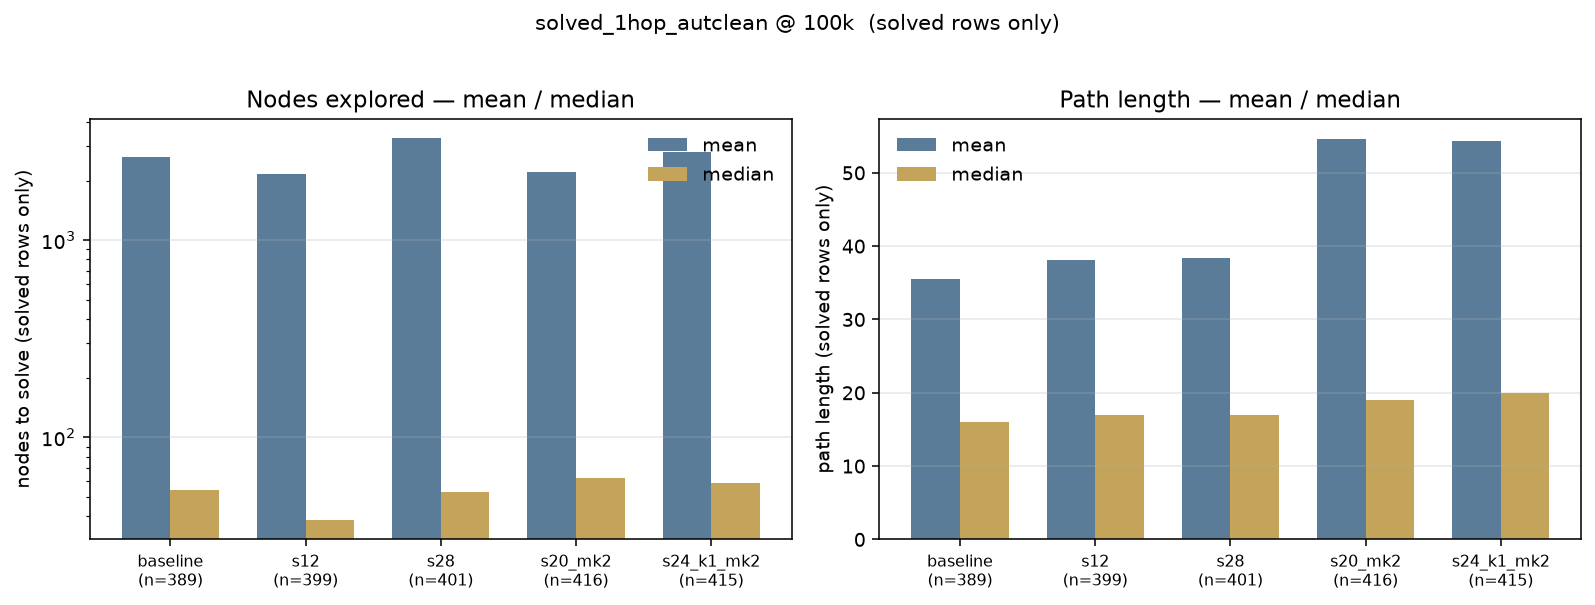
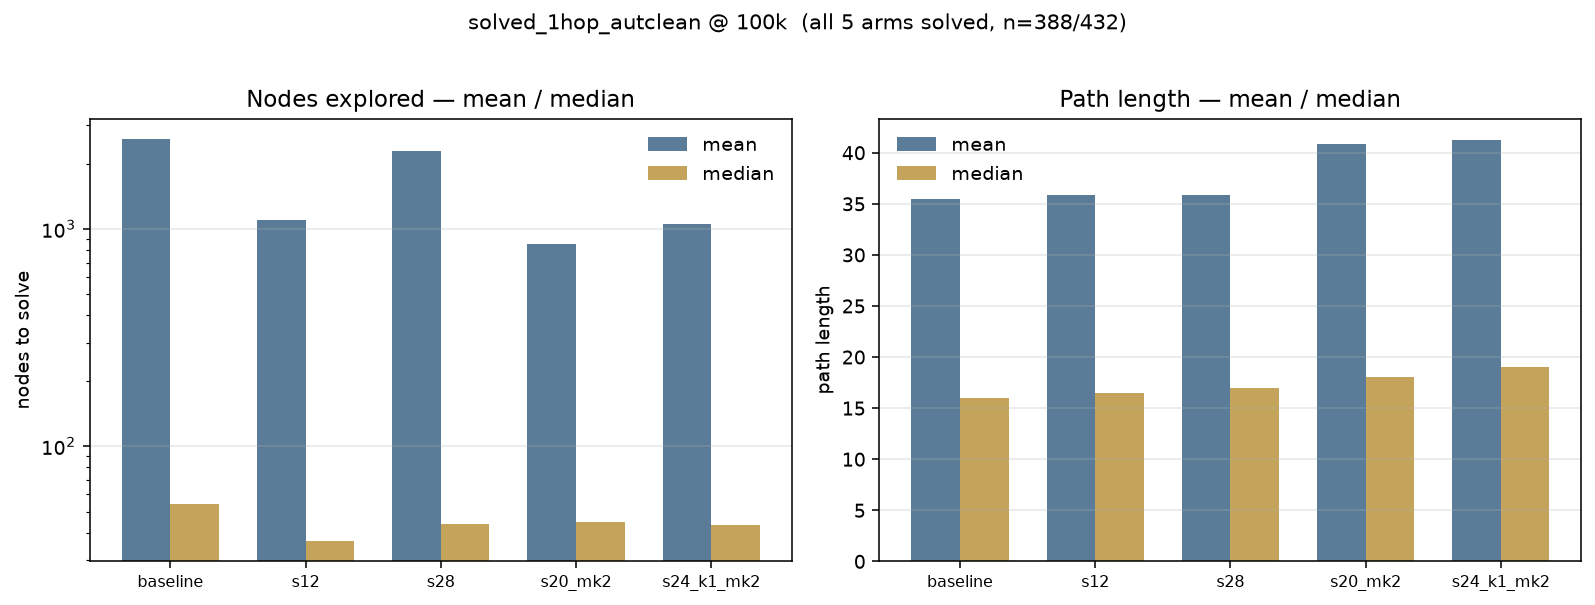
results: mean/median on all-five-solved denominator
Per-arm solved-only means biased treatments that pick up harder residuals.
Fig + RESULTS now use the 388 presentations every arm solved.

diff --git a/experiments/heuristic_search/figures/make_solved1hop_100k_figs.py b/experiments/heuristic_search/figures/make_solved1hop_100k_figs.py
@@ -131,30 +131,29 @@ def write_csv(assigned, path):
 
 
 def fig_mean_median(assigned, path):
-    """Bar chart: mean/median nodes and path over solved rows only."""
+    """Bar chart: mean/median on the all-five-solved intersection (unbiased)."""
+    all5 = [r for r in assigned if all(r[f"{a}_solved"] for a in ARMS)]
+    n = len(all5)
     fig, axes = plt.subplots(1, 2, figsize=(11.5, 4.2))
     x = np.arange(len(ARMS))
     width = 0.36
 
-    means_n, meds_n, means_p, meds_p, ns = [], [], [], [], []
+    means_n, meds_n, means_p, meds_p = [], [], [], []
     for a in ARMS:
-        nodes = [r[f"{a}_nodes"] for r in assigned if r[f"{a}_solved"]]
-        paths = [r[f"{a}_path"] for r in assigned
-                 if r[f"{a}_solved"] and r[f"{a}_path"] is not None]
-        means_n.append(float(np.mean(nodes)) if nodes else float("nan"))
-        meds_n.append(float(np.median(nodes)) if nodes else float("nan"))
-        means_p.append(float(np.mean(paths)) if paths else float("nan"))
-        meds_p.append(float(np.median(paths)) if paths else float("nan"))
-        ns.append(len(nodes))
+        nodes = [r[f"{a}_nodes"] for r in all5]
+        paths = [r[f"{a}_path"] for r in all5]
+        means_n.append(float(np.mean(nodes)))
+        meds_n.append(float(np.median(nodes)))
+        means_p.append(float(np.mean(paths)))
+        meds_p.append(float(np.median(paths)))
 
     ax = axes[0]
     ax.bar(x - width / 2, means_n, width, label="mean", color="#5b7c99")
     ax.bar(x + width / 2, meds_n, width, label="median", color="#c4a35a")
     ax.set_yscale("log")
     ax.set_xticks(x)
-    ax.set_xticklabels(
-        [f"{a}\n(n={n})" for a, n in zip(ARMS, ns)], fontsize=8)
-    ax.set_ylabel("nodes to solve (solved rows only)")
+    ax.set_xticklabels(ARMS, fontsize=8)
+    ax.set_ylabel("nodes to solve")
     ax.set_title("Nodes explored — mean / median")
     ax.legend(frameon=False)
     ax.grid(True, axis="y", alpha=0.3)
@@ -163,15 +162,15 @@ def fig_mean_median(assigned, path):
     ax.bar(x - width / 2, means_p, width, label="mean", color="#5b7c99")
     ax.bar(x + width / 2, meds_p, width, label="median", color="#c4a35a")
     ax.set_xticks(x)
-    ax.set_xticklabels(
-        [f"{a}\n(n={n})" for a, n in zip(ARMS, ns)], fontsize=8)
-    ax.set_ylabel("path length (solved rows only)")
+    ax.set_xticklabels(ARMS, fontsize=8)
+    ax.set_ylabel("path length")
     ax.set_title("Path length — mean / median")
     ax.legend(frameon=False)
     ax.grid(True, axis="y", alpha=0.3)
 
-    fig.suptitle("solved_1hop_autclean @ 100k  (solved rows only)",
-                 fontsize=11, y=1.02)
+    fig.suptitle(
+        f"solved_1hop_autclean @ 100k  (all 5 arms solved, n={n}/{len(assigned)})",
+        fontsize=11, y=1.02)
     fig.tight_layout()
     fig.savefig(path, dpi=140, bbox_inches="tight")
     plt.close(fig)

diff --git a/results/heuristic_search/hsearch_solved1hop_100k/RESULTS.md b/results/heuristic_search/hsearch_solved1hop_100k/RESULTS.md
@@ -53,15 +53,17 @@ read the table row-level / stratified below.
 | short_relator | 38 | 38/38 | 38/38 | 38/38 | 38/38 | 38/38 |
 | non-short moved_cov | 339 | 296/339 | 306/339 | 308/339 | 323/339 | 322/339 |
 
-## Node efficiency vs baseline (both solved)
+## Node / path efficiency (all 5 arms solved)
 
-| arm | geo-mean nodes ratio | n paired | med solved_at |
-|---|---:|---:|---:|
-| baseline | — | — | 54 |
-| s12 | 0.645 | 389 | 38 |
-| s28 | 0.780 | 388 | 53 |
-| s20_mk2 | 0.674 | 389 | 62 |
-| s24_k1_mk2 | 0.706 | 389 | 59 |
+Denominator = presentations every arm solved: **388/432**. Per-arm solved-only means are biased (treatments pick up harder residuals and inflate their mean nodes/path).
+
+| arm | mean nodes | med nodes | mean path | med path | geo ratio vs baseline |
+|---|---:|---:|---:|---:|---:|
+| baseline | 2608.7 | 54.0 | 35.5 | 16.0 | — |
+| s12 | 1097.7 | 36.5 | 35.9 | 16.5 | 0.641 |
+| s28 | 2276.7 | 44.0 | 35.9 | 17.0 | 0.780 |
+| s20_mk2 | 851.0 | 45.0 | 40.8 | 18.0 | 0.671 |
+| s24_k1_mk2 | 1056.5 | 43.5 | 41.3 | 19.0 | 0.703 |
 
 ## Difficulty bins (benchmark log-edges, length-baseline @100k)
 
@@ -84,7 +86,7 @@ Baseline-censored (unsolved @100k): **43** presentations (placed in bin by nodes
 
 ### Figures
 
-- `solved1hop_100k_mean_median.png`
+- `solved1hop_100k_mean_median.png` (all-five-solved denominator)
 - `solved1hop_100k_nodes_explored.png`
 - `solved1hop_100k_path_length.png`
 - `solved1hop_100k_difficulty_bins.png`
